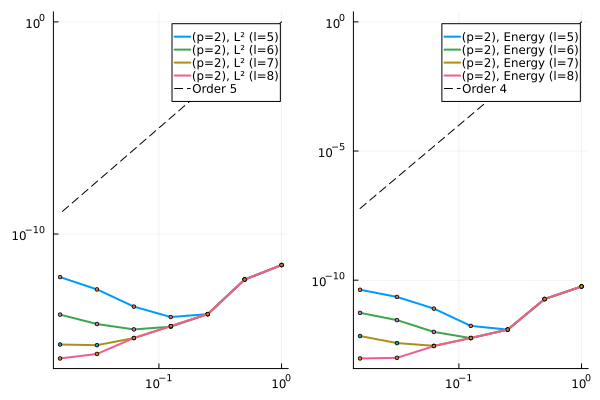
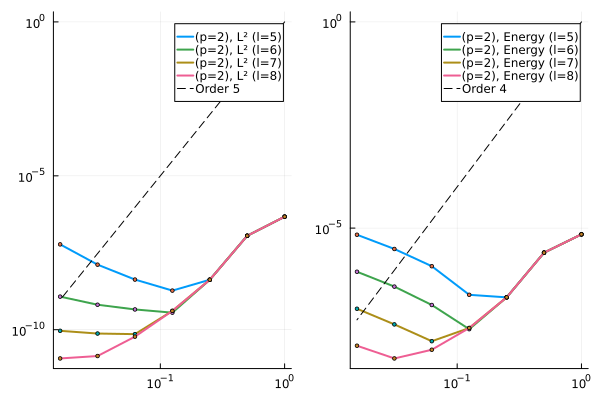
Update README.md with full results for the heat equation with random coefficients

diff --git a/README.md b/README.md
@@ -232,11 +232,16 @@ Similar behavior can be seen for higher order methods also.
 
 Finally, I test the problem for random-coefficients which are piecewise-constant on the scale $\epsilon = 2^{-12}$. 
 
-`(p=1)` | `(p=3)` |
+`(p=1)` | `(p=2)` |
 --- | --- |
-![](./HigherOrderMS/Images/HeatEquation/ooc_p1_random_coeff_t1.0.png) | ![](./HigherOrderMS/Images/HeatEquation/ooc_p2_random_coeff_t1.0.png) |
+![](./HigherOrderMS/Images/HeatEquation/ooc_p1_random_coeff_t1.0.png) | ![](./HigherOrderMS/Images/HeatEquation/ooc_p2_random_coeff_t1.0.png) | 
 
-The method again shows optimal convergence for both `p=1` and `p=2`.
+`(p=3)` | Random Diffusion Coefficient | 
+--- | --- |
+![](./HigherOrderMS/Images/HeatEquation/ooc_p3_random_coeff_t1.0.png) | ![](./HigherOrderMS/Images/HeatEquation/random_coeff.png) |
+
+
+The method again shows optimal convergence for `p=1` but seem to slightly deteriorate for `p=2,3` as the mesh-size decreases. This can be seen in the case of the wave equation as well, which will be covered in the next section.
 
 
 ##### Wave Equation
